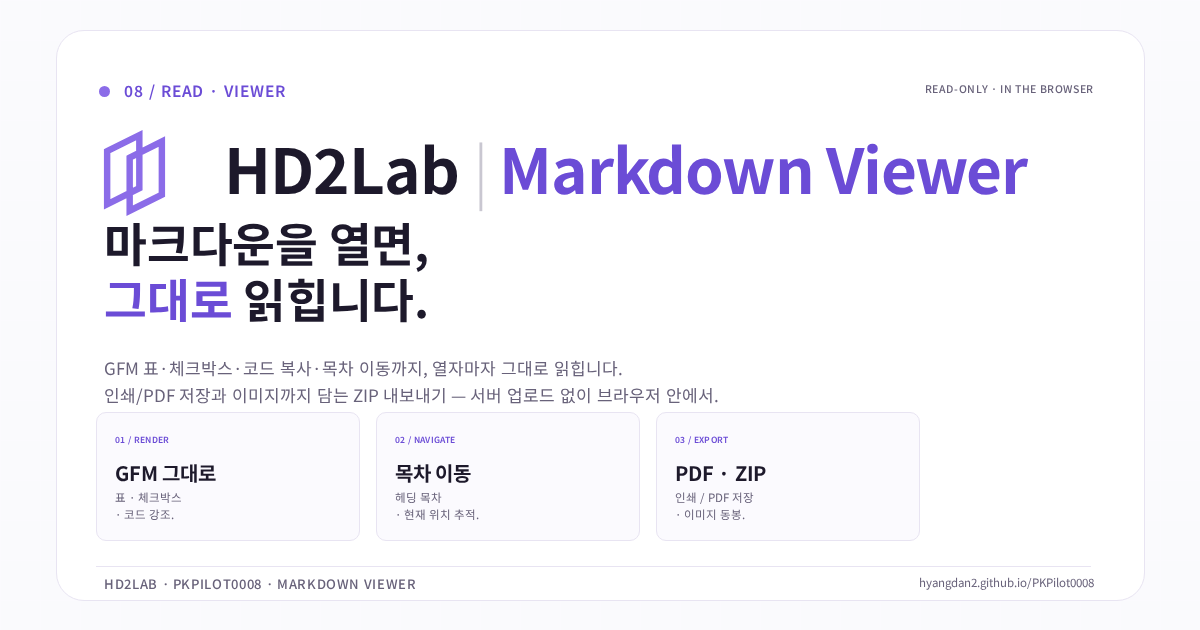
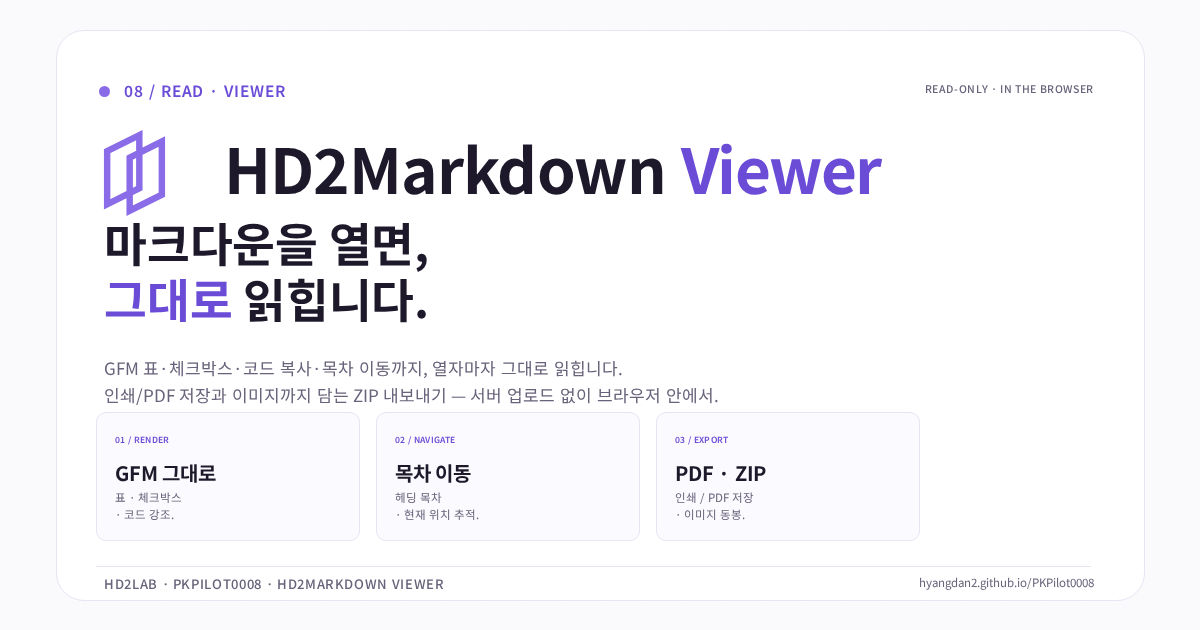
fix(pkpilot0008): OG 이미지·README 이름을 HD2Markdown Viewer로 통일 (#10)

Changed region(s): [[0.2775, 0.2111, 0.8633, 0.3317], [0.2158, 0.9048, 0.37, 0.9349]]

diff --git a/index.html b/index.html
@@ -12,14 +12,14 @@
     <meta property="og:title" content="HD2Markdown Viewer">
     <meta property="og:description" content="GFM 렌더러 · 목차 · 코드 복사 · 인쇄/PDF · ZIP 내보내기.">
     <meta property="og:url" content="https://hyangdan2.github.io/PKPilot0008/">
-    <meta property="og:image" content="https://hyangdan2.github.io/PKPilot0008/og-image.png?v=20261119-og">
-    <meta property="og:image:secure_url" content="https://hyangdan2.github.io/PKPilot0008/og-image.png?v=20261119-og">
+    <meta property="og:image" content="https://hyangdan2.github.io/PKPilot0008/og-image.png?v=20261119-og2">
+    <meta property="og:image:secure_url" content="https://hyangdan2.github.io/PKPilot0008/og-image.png?v=20261119-og2">
     <meta property="og:image:type" content="image/png">
     <meta property="og:image:width" content="1200">
     <meta property="og:image:height" content="630">
     <meta property="og:image:alt" content="HD2Markdown Viewer — 마크다운을 열면, 그대로 읽힙니다">
     <meta name="twitter:card" content="summary_large_image">
-    <meta name="twitter:image" content="https://hyangdan2.github.io/PKPilot0008/og-image.png?v=20261119-og">
+    <meta name="twitter:image" content="https://hyangdan2.github.io/PKPilot0008/og-image.png?v=20261119-og2">
     <meta name="twitter:image:alt" content="HD2Markdown Viewer — 마크다운을 열면, 그대로 읽힙니다">
     <!-- HD2Lab shared theme: applies the stored hd2-theme before first paint (no flash) -->
     <script>try{var h=localStorage.getItem('hd2-theme');document.documentElement.setAttribute('data-theme',h==='dark'?'dark':'light');}catch(e){document.documentElement.setAttribute('data-theme','light');}</script>

diff --git a/README.md b/README.md
@@ -1,4 +1,4 @@
-# PKPilot0008 — HD2Lab Markdown Viewer
+# PKPilot0008 — HD2Markdown Viewer
 
 Live: <https://hyangdan2.github.io/PKPilot0008/>
 
